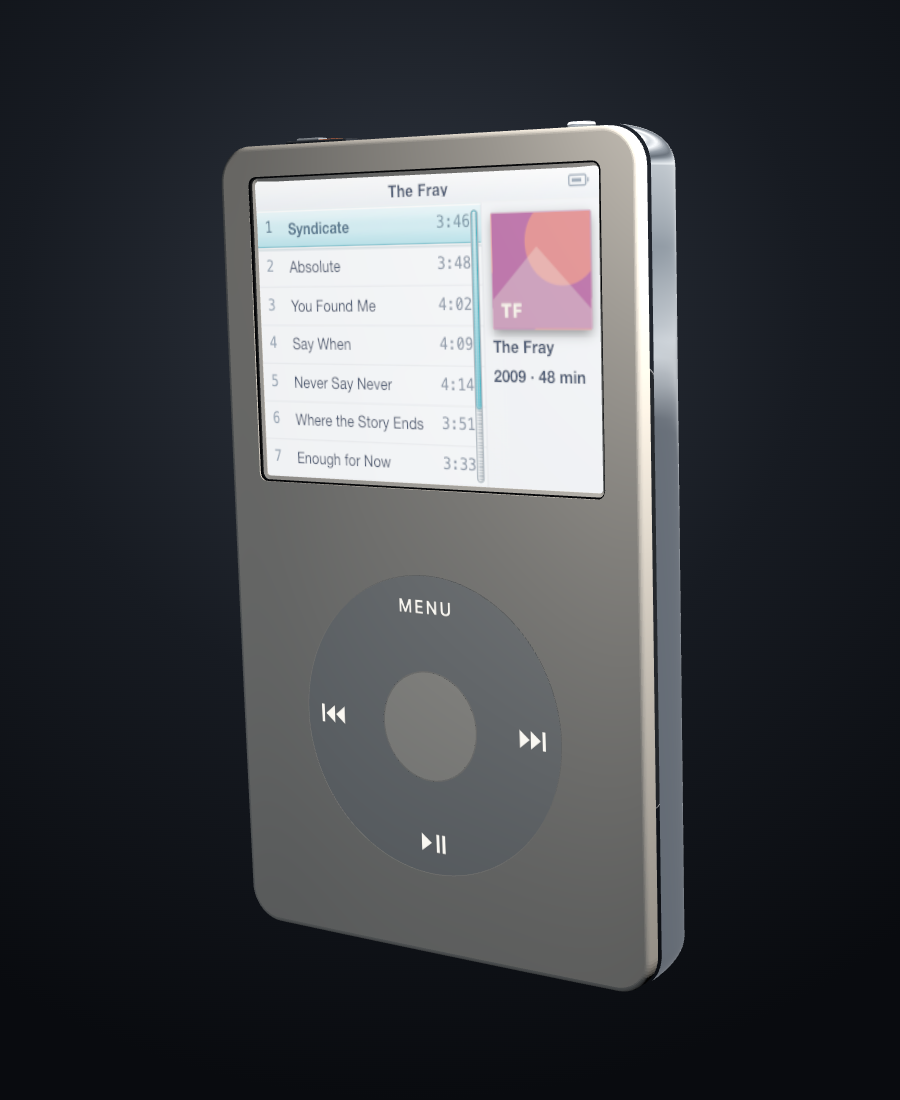
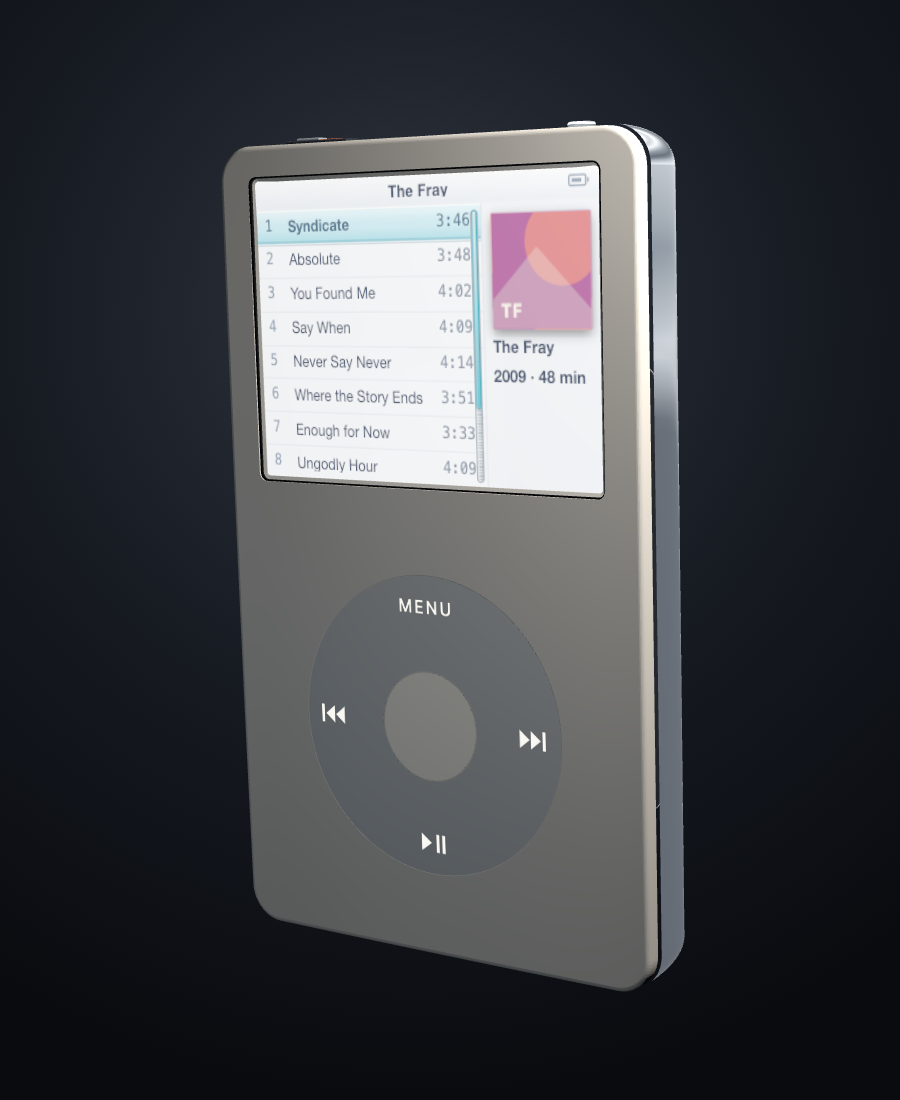
docs(002): record Aqua review corrections

Changed region(s): [[0.28, 0.1855, 0.5289, 0.4327]]

diff --git a/docs/workstreams/002-implementation-spine/reviews/panel-aqua-list-review.md b/docs/workstreams/002-implementation-spine/reviews/panel-aqua-list-review.md
@@ -1,0 +1,161 @@
+# Independent antagonistic review — panel Aqua list correction
+
+**Reviewed commits:** `8ed97f4`, `da038da`, `c32fa3d`  
+**Review posture:** strict-critique, production-browser evidence, visual inspection, and mutation plants  
+**Verdict:** **REQUEST_CHANGES** — 4 Major, 2 Minor
+
+The visual direction is materially better than a flat cyan treatment: the selected row is layered, the scrollbar well and thumb are separate objects, the track groove remains visible, and the black and white authored variants are distinct. Those strengths do not clear the slice. The production viewport and thumb geometry are wrong in owner-visible states, two binding material invariants have green plants, and the dark selected metadata misses the contrast claim made by the evidence.
+
+## Major findings
+
+### Major 1 — the declared 8-row album viewport only fits seven rows, so the selected end row is clipped offscreen
+
+`AlbumTracks` renders `frame.visibleRows` rows and passes that same value to the indicator (`packages/panel/src/Panel.tsx:298-312`), but `.wp-track-list` is 183 px tall while every `.wp-track-row` is 26 px tall (`packages/panel/src/panel.css:137`, `packages/panel/src/panel.css:147`). Eight rows require 208 px. The contract, thumb ratio, and actual viewport therefore disagree.
+
+On the production route at 2× raster scale, after opening the 11-row album and moving to row 11, I measured:
+
+```text
+listTop=218, listBottom=584
+selectedTop=582, selectedBottom=634
+selectedHeight=52, intersection=2
+visibleRows=8, windowStart=3, thumbSize=72.727%
+```
+
+Only 2 of 52 rendered pixels of the current row intersect the list. The committed `black-selected-end.png` and `white-selected-end.png` visibly show rows 4–10 with no Aqua selection at all. The end-state browser test only finds the offscreen DOM node and reads its computed style (`apps/web/tests/list-scroll-indicator.e2e.ts:147-163`); it never asserts that the selected row is visible or contained by the list viewport. Consequently, the claims that the evidence covers the selected end row (`docs/workstreams/002-implementation-spine/evidence/panel-aqua-list/README.md:15`, `docs/workstreams/002-implementation-spine/evidence/panel-aqua-list/README.md:24`) are false as visual claims.
+
+This is not a screenshot nicety. The indicator says 8/11 while the owner can see only seven complete rows, and wheel navigation leaves the current item outside the usable viewport.
+
+### Major 2 — the minimum thumb size is absent from the travel equation, so very long reusable lists lose the thumb at the end
+
+`listScrollGeometry` computes both size and offset entirely in percentages (`packages/panel/src/list-scroll-indicator.tsx:21-24`), while CSS independently imposes `min-block-size: 5px` (`packages/panel/src/panel.css:130`). Once the ratio-produced thumb is smaller than 5 px, the offset still travels as though the thumb had its sub-pixel proportional size. The real thumb then overflows and is clipped by the well at the end.
+
+Using the production CSS with `totalRows=10_000`, `visibleRows=8`, and an authored 175 px well produced:
+
+```text
+requested size = 0.080%
+requested offset = 99.920%
+rendered track height = 350px at 2×
+rendered thumb height = 10px
+rendered thumb top = 349.71875px
+visible thumb at end = 0.28125px
+```
+
+The pure-function length sweep stops at 120 and never mounts the CSS-constrained thumb (`packages/panel/src/list-scroll-indicator.test.tsx:36-47`). This fails the stated reuse requirement for future artist, playlist, album, track, and search result lists. A minimum-size thumb must participate in the same geometry that determines its travel; a CSS-only minimum and ratio-only offset cannot remain independent.
+
+### Major 3 — the stationary-groove and selected-row-rim gates are not load-bearing
+
+Two distinct owner-requirement violations survive both the focused suite and the production browser evidence:
+
+1. I added a later `.wp-list-scroll__well::after` layer over the rightmost 4 px of the 6 px well and made its stripe `background-position` consume `--wp-list-scroll-thumb-offset`. The focused 28 tests and exact production Playwright run both stayed green. The static test parses only the base well rule (`packages/panel/src/aqua-material.test.ts:139-149`). The browser proof hides the thumb and captures the full well, but hashes only the first third of its width (`apps/web/tests/list-scroll-indicator.e2e.ts:167-227`). Moving pixels in the unoccluded remainder are therefore unproved. This directly contradicts the evidence claim that track pixels are fixed outside thumb occlusion (`docs/workstreams/002-implementation-spine/evidence/panel-aqua-list/README.md:17-23`).
+
+2. I added a later cascade override, `.wp-panel { --wp-selection-top-rim: transparent; }`. Again, all 28 focused tests and the production browser test stayed green. The static test sees the earlier token declaration and the browser assertion merely counts gradient functions; neither verifies the computed/effective rim. This disproves the statement that the executable plant rejects top-rim removal (`docs/workstreams/002-implementation-spine/evidence/panel-aqua-list/README.md:29-30`).
+
+Both are central to the binding requirement that Aqua be layered rather than color-only. A proof that samples a cherry-picked strip or checks an overridden declaration is not evidence of the rendered material.
+
+### Major 4 — dark selected metadata does not meet the evidence's AA contrast claim
+
+The selected row foreground itself is white in the dark variant, but `.wp-row-meta` applies `opacity: .84` even when it inherits that foreground (`packages/panel/src/panel.css:135`). The contrast test checks the opaque token value against the base stops and only asserts that metadata contains `currentColor` (`packages/panel/src/aqua-material.test.ts:116-129`). It never alpha-composites the metadata as rendered.
+
+For the dark Aqua layers, the relevant contrast changes are:
+
+```text
+white vs #247f9b: 4.581:1 opaque, 3.734:1 at 0.84 opacity
+white vs #0d7393: 5.397:1 opaque, 4.310:1 at 0.84 opacity
+```
+
+The 11 px duration/count metadata is normal-sized text, so those portions fail 4.5:1. The evidence statement that every authored selection foreground clears 4.5 and that metadata inherits it (`docs/workstreams/002-implementation-spine/evidence/panel-aqua-list/README.md:27-28`) omits the opacity that changes the rendered color. This is visible-interface correctness, not a theoretical token objection.
+
+## Minor findings
+
+### Minor 1 — “dynamic length changes” are not exercised as dynamic changes
+
+The test calls the pure geometry function independently with `[0, 4, 8, 9, 120]` (`packages/panel/src/list-scroll-indicator.test.tsx:36-47`). It does not rerender one mounted indicator across changing totals/window starts or replay a production transition. The component is currently stateless, so this is not evidence of a present stale-state bug, but the proof does not establish the claimed runtime behavior.
+
+### Minor 2 — the new exported component lacks the required API documentation
+
+`ListScrollIndicator` is exported without TSDoc (`packages/panel/src/list-scroll-indicator.tsx:29`). The workstream contract requires exported functions to document their reusable contract. That matters here because the component is explicitly intended for future list surfaces.
+
+## Mutation ledger
+
+| Plant | Result | Disposition |
+|---|---:|---|
+| Render the indicator when `totalRows <= visibleRows` | 3 failures | Gate is load-bearing for 8/8 and underflow absence. |
+| Move the indicator into the preview pane | 1 failure | Ownership gate is load-bearing. |
+| Make thumb size a flat 50% | 2 failures | Basic proportionality gate is load-bearing. |
+| Flatten the thumb to a cyan fill | 1 failure | Thumb material gate is load-bearing. |
+| Flatten the selected row with a later cascade | Unit test stayed green; production browser failed | End-to-end computed-gradient check catches this variant. |
+| Move a right-side well stripe layer with thumb offset | **28/28 focused pass; 1/1 browser pass** | **Green; Major 3.** |
+| Remove the effective top rim with a later cascade | **28/28 focused pass; 1/1 browser pass** | **Green; Major 3.** |
+| Use one wrong foreground for both variants | Fails the existing mutation and production computed-color comparison | Variant foreground gate is load-bearing at token level. |
+| One-row list | Indicator correctly absent | Correct. |
+| 10,000-row list at end | Only 0.28125 rendered px of the 10 px thumb remains visible | **Production geometry defect; Major 2.** |
+
+## What reproduced and remains clean
+
+- Exact production-evidence replay passed 1/1 and generated byte-identical PNGs and summaries from immutable source commit `c32fa3d`; the defect in Major 1 is present in both the committed and fresh evidence, not an attribution mismatch.
+- The 8/8 main menu has no custom indicator. The 11/8 album list owns it inside the list pane, not the preview pane.
+- The well and thumb are separate DOM/material layers; the authored base well stripe position is fixed and does not consume the thumb offset.
+- Start, middle, and end movement is driven by actual wheel detents in the production route. There is no native scrollbar exposed.
+- The inspected black and white first/middle selected states are crisp and visibly layered rather than flat cyan. Both colorways are intentionally authored. The older both-colourway aesthetic call remains owner-only and is not waived by this review.
+- The changed production code adds no timer, animation loop, or idle frame work. Existing reduced-motion, pointer lifecycle, SFX, and detent paths are untouched.
+- `bun run typecheck` passed 11/11, repo lint passed, `bun test` passed 1152/1152, client and SSR builds passed, and automated gates passed 16/16. Manual U14/U15 gates remain manual.
+- The reviewed commits are trailer-free and `git show --check` is clean.
+- The live `rasterScaleMultiplier` change in `packages/panel/src/Panel.tsx` is a separate dirty hunk. None of the three reviewed commits contains or overlaps it; this review does not disposition that work.
+
+## Final disposition
+
+**REQUEST_CHANGES.** Major 1 and Major 2 are owner-visible production geometry failures. Major 3 shows that two binding appearance claims can regress while every stated gate remains green. Major 4 invalidates the rendered contrast claim in the dark variant. All four require correction and new falsifiable evidence before this slice can be approved.
+
+# Correction response — Aqua list review
+
+**Implementation under response:** `7bb9906ef40388ebbb5ebc4de2edc4f666e1980d`
+
+The original review above is retained unchanged. Each finding is addressed as
+follows:
+
+1. **Major 1 — closed.** Album row height is now derived from the fixed 183px
+   list viewport and the authoritative visible-row count. Compact remains the
+   state-owned eight-row viewport; each row is 22.875px and all eight fit.
+   Static and virtual lists use the same equation. The production browser test
+   measures list and selected-row bounds at first, middle, and end in both
+   colourways and requires complete containment. Replanting 26px rows fails at
+   the final-row containment assertion.
+2. **Major 2 — closed.** `listScrollGeometry` computes effective thumb size in
+   the authored 175px track, applies the 5px minimum before calculating travel,
+   and publishes pixel size/offset from that one result. At 10,000/8/end the
+   mounted component emits 5px/170px, and real CSS places the thumb bottom
+   exactly at the track bottom. Removing the clamp makes two focused tests red.
+3. **Major 3 — closed.** The selection rim is a structural one-pixel child,
+   no longer a custom-property stop inside the background. Browser evidence
+   verifies the effective computed rim color and size. Well pseudo-elements are
+   structurally disabled, a static gate rejects any second offset consumer, and
+   the browser proof hashes the complete isolated 6×175px well. The three full
+   hashes are identical. Replaying an effective moving overlay and an effective
+   transparent rim makes the production browser test red at the computed layer
+   assertions.
+4. **Major 4 — closed.** Selected metadata now renders at opacity 1. The unit
+   gate alpha-composites the effective text color against each authored material
+   stop and the browser asserts computed opacity. Replanting `.84` fails both
+   forms of proof.
+5. **Minor 1 — closed.** One mounted component is rerendered through totals
+   120 → 4 → 10,000 and changing window starts. It transitions from proportional
+   geometry to absence to minimum-clamped end geometry without remounting.
+6. **Minor 2 — closed.** `ListScrollIndicator` now has TSDoc immediately at its
+   export; a focused source gate protects that placement.
+
+## Replayed plants
+
+- Combined 26px-row / moving-overlay / transparent-rim / `.84`-metadata plant:
+  focused result **4 fail, 21 pass**.
+- Unclamped 10,000-row thumb plant: focused result **2 fail, 5 pass**.
+- 26px-row plant in production browser: **1 fail**, at selected-row containment.
+- Moving right-side overlay in production browser: **1 fail**, at computed
+  `::after` content/display.
+- Transparent structural rim in production browser: **1 fail**, at computed
+  rim color.
+- `.84` selected metadata in production browser: **1 fail**, at computed
+  metadata opacity.
+
+After every replay the source was restored. The immutable-source production
+evidence pass and corrected captures live in
+`evidence/panel-aqua-list/`; no owner aesthetic approval is claimed.

diff --git a/docs/workstreams/002-implementation-spine/evidence/panel-aqua-list/README.md b/docs/workstreams/002-implementation-spine/evidence/panel-aqua-list/README.md
@@ -1,10 +1,10 @@
 # Panel Aqua list evidence
 
-This evidence was generated from immutable source commit
-`da038dab6b5bdc696e7dd64f9d2002b8270ea32d`, tree
-`af0a323bdf3d1b20e537c29e06a240b44eefbad9`, on the production
+This corrected evidence was generated from immutable source commit
+`7bb9906ef40388ebbb5ebc4de2edc4f666e1980d`, tree
+`a9394e66c9ce33d422d8fea4cf412c350d99ff53`, on the production
 `/_spike/device` route. The browser source fingerprint was
[2 lines of base64/hex data omitted]
 across 211 served files.
 
 ## Result
@@ -14,20 +14,32 @@ across 211 served files.
   pane has none.
 - The thumb is 8/11 of the authored track and follows the authoritative
   `windowStart` after real wheel events.
+- All eight declared album rows fit the 183px list viewport. The selected
+  first, middle, and final rows report `contained: true` in both colourways;
+  the final row bottom and list bottom agree within the browser's subpixel
+  precision.
+- A 10,000-row end-state mounts an effective 5px thumb at 170px on the 175px
+  track. Its bottom is exactly the track bottom, so the CSS minimum and travel
+  equation cannot diverge.
 - The recessed track and glossy thumb are separate DOM/CSS layers. The track
-  uses a fixed `0 0` stripe phase; only the thumb consumes the offset variable.
-- The fixed-coordinate stripe sample has the same SHA-256 at start, middle,
-  and end:
[1 lines of base64/hex data omitted]
+  uses a fixed `0 0` stripe phase; pseudo overlays are disabled; only the thumb
+  consumes the offset variable.
+- The full fixed-coordinate 6×175px track—not a sampled strip—has the same
+  SHA-256 at start, middle, and end:
[1 lines of base64/hex data omitted]
   The three complete indicator hashes differ, proving the thumb moved while
-  the sampled track pixels did not.
+  every track pixel stayed fixed.
 - Black and white selected rows were captured at rows 1, 6, and 11. Black uses
   a deep graphite/aqua material with white content; white uses a separately
   authored pale ice/aqua material with slate content.
-- Every authored selection foreground clears 4.5:1 against all three base
-  material stops. Metadata, row numbers, and chevrons inherit that foreground.
-- Three executable plants reject a flat one-color selection, removal of the
-  1px top rim, and a shared unsuitable foreground.
+- The Aqua rim is a separate one-pixel DOM layer. The production browser reads
+  its effective color as `rgb(169, 239, 255)` in black and `rgb(255, 255, 255)`
+  in white.
+- Selected metadata renders at opacity 1. Its effective foreground therefore
+  preserves the tested 4.5:1 minimum against all three base material stops.
+- Executable plants reject flat selection, an effectively transparent rim,
+  a moving right-side track overlay, shared foregrounds, `.84` selected
+  metadata, 26px clipped rows, and unclamped 10,000-row thumb geometry.
 
 [`summary.json`](./summary.json) records the computed materials, geometry,
 selected labels, source observations, and hashes.
@@ -47,7 +59,7 @@ Indicator movement:
   [`middle`](./indicator-middle.png), [`end`](./indicator-end.png)
 - isolated fixed track: [`start`](./indicator-track-start.png),
   [`middle`](./indicator-track-middle.png), [`end`](./indicator-track-end.png)
-- byte-compared stripe samples: [`start`](./indicator-track-stripes-start.png),
+- byte-compared full-track aliases: [`start`](./indicator-track-stripes-start.png),
   [`middle`](./indicator-track-stripes-middle.png),
   [`end`](./indicator-track-stripes-end.png)
 
@@ -71,15 +83,15 @@ the committed tokens are authored for legibility at the fixed 272×204 raster.
 
 ## Verification
 
-An exact detached Git worktree at `da038da` produced:
+An exact detached source snapshot at `7bb9906` produced:
 
 - `bun run typecheck`: 11/11 projects clean
 - `bun run lint`: clean
-- `bun test`: 1,152 pass, 0 fail
+- `bun test`: 1,185 pass, 0 fail
 - `bun run build`: client and SSR builds clean
 - `bun run gates`: 16 automated pass, 0 fail; the standing U14/U15 manual
   checks remain unrelated to this panel slice
-- focused panel unit/material tests: 28 pass, 0 fail
+- focused panel unit/material tests: 43 pass, 0 fail
 - focused panel wheel-navigation browser test: 1 pass, 0 fail
 - immutable production-route Aqua evidence test: 1 pass, 0 fail
 
